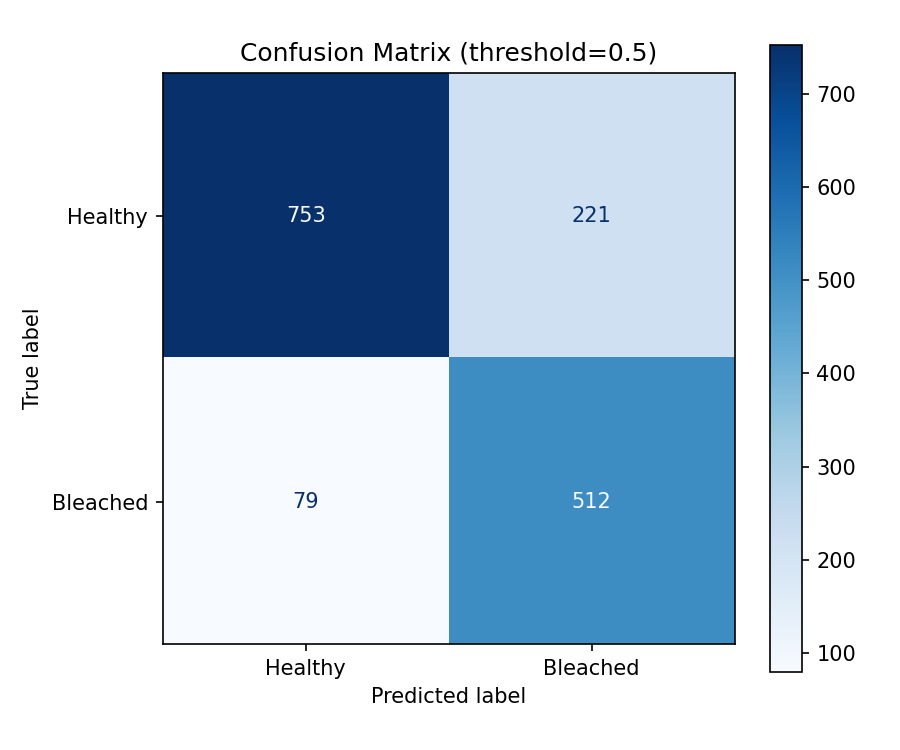
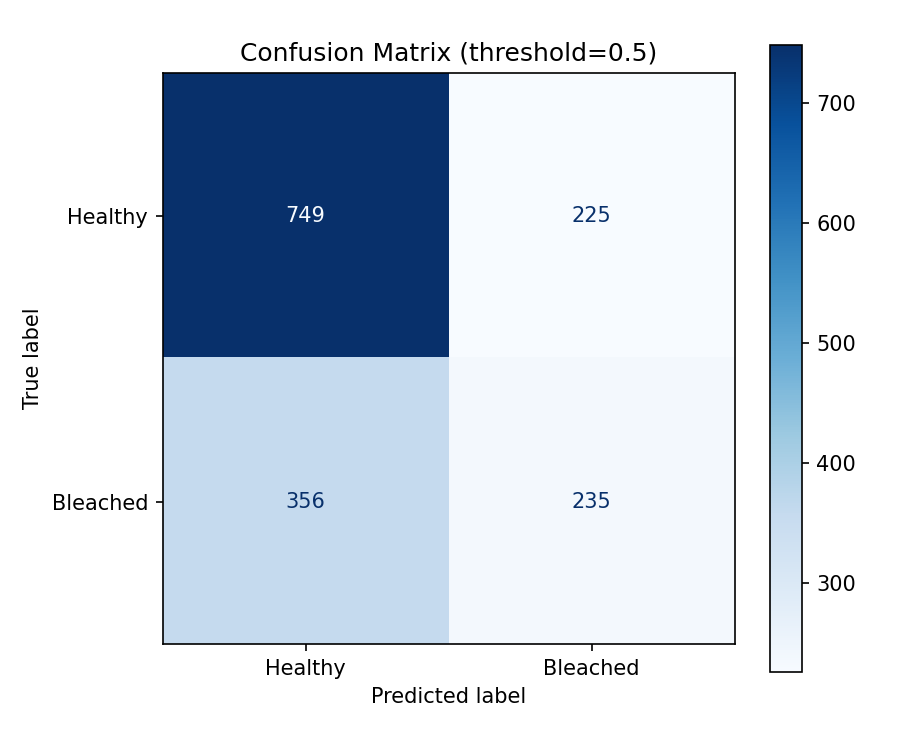
moved models , setup production api

diff --git a/Source/frontend/app/page.tsx b/Source/frontend/app/page.tsx
@@ -11,7 +11,7 @@ import { UploadDropzone } from "@/components/upload-dropzone";
 import { ClassificationData } from "@/lib/types";
 
 const ACCEPTED_TYPES = ["image/png", "image/jpeg", "image/jpg", "image/gif", "image/webp"];
-const API_BASE = "http://localhost:5001";
+const API_BASE = process.env.Production_API_URL || "http://localhost:5001";
 const POLL_INTERVAL_MS = 750;
 
 type JobStatus = ClassificationData & {

diff --git a/Source/backend/main.py b/Source/backend/main.py
@@ -17,11 +17,9 @@ BLEACHED_LABEL = "Bleached Coral"
 UNSURE_LABEL = "Unsure"
 CLASS_NAMES = [HEALTHY_LABEL, BLEACHED_LABEL]
 THRESHOLD = 0.5  # probability threshold for binary classification
-MODEL_PATH = "CurrentModel.h5"
 BASE_DIR = os.path.dirname(__file__)
-MODEL_HISTORY_DIR = os.path.abspath(os.path.join(BASE_DIR, "..", "ModelHistory"))
-PRIMARY_MODEL_PATH = os.path.join(MODEL_HISTORY_DIR, "V20251114_192040.h5")
-SECONDARY_MODEL_PATH = os.path.join(MODEL_HISTORY_DIR, "V20251114_153133.h5")
+PRIMARY_MODEL_PATH = os.path.join(BASE_DIR, "V20251114_192040.h5")
+SECONDARY_MODEL_PATH = os.path.join(BASE_DIR, "V20251114_153133.h5")
 UNSURE_LOW = 0.4
 UNSURE_HIGH = 0.6
 SECONDARY_BONUS_WEIGHT = 0.2

diff --git a/Source/GenerateConfusionMatrix.py b/Source/GenerateConfusionMatrix.py
@@ -9,7 +9,7 @@ from sklearn.metrics import confusion_matrix, ConfusionMatrixDisplay, classifica
 from tqdm import tqdm
 import tf_keras
 
-MODEL_PATH = "./ModelHistory/V20251116_132020.h5"
+MODEL_PATH = "./ModelHistory/V20251114_192040.h5"
 IMG_SIZE = 224
 BATCH_SIZE = 32
 THRESHOLD = 0.5